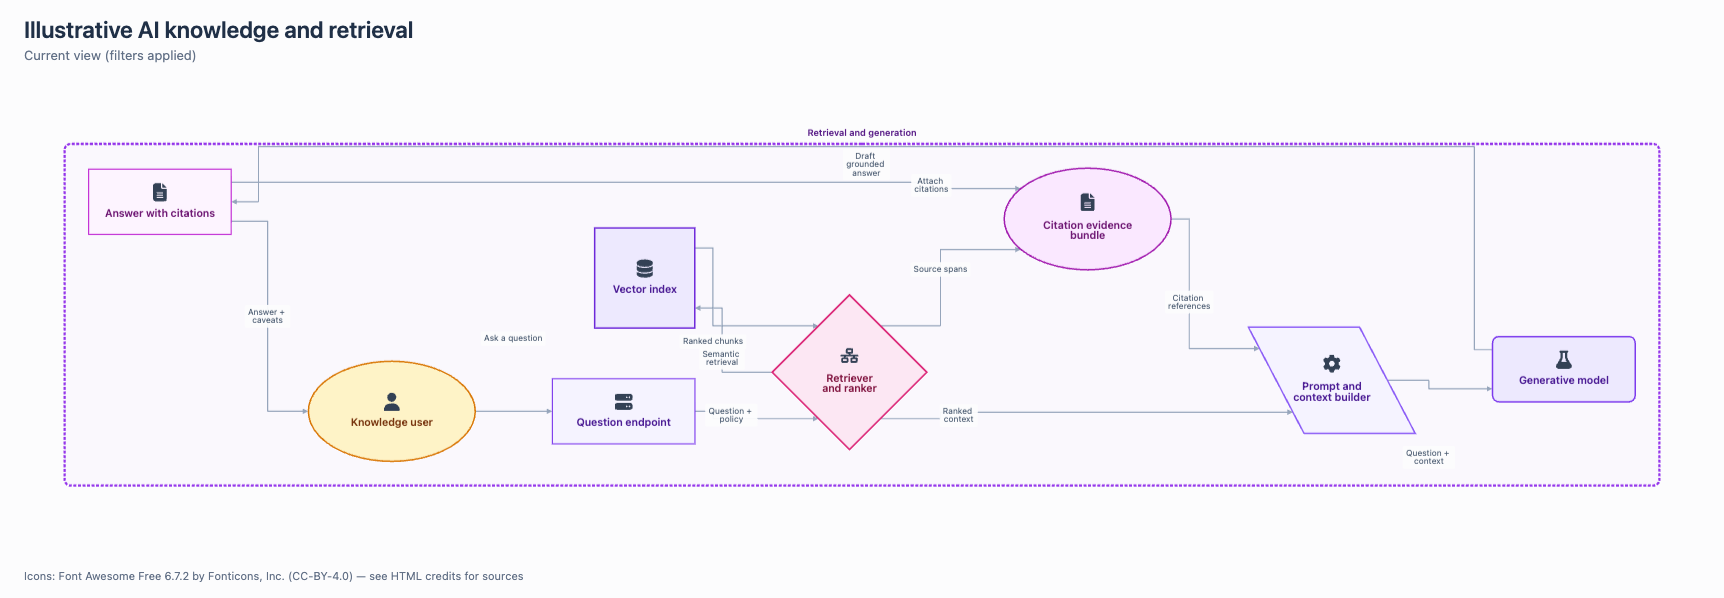
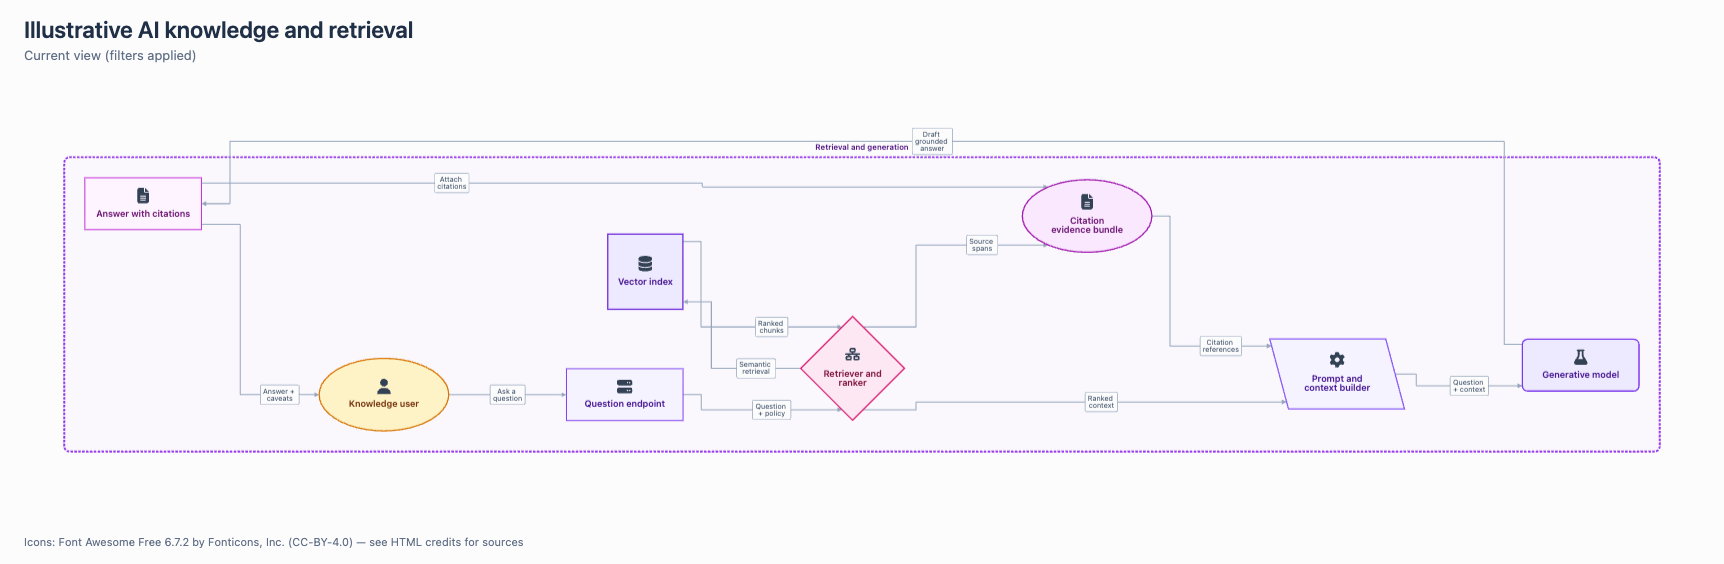
Improve diagram composition and routing

diff --git a/assets/viewer.js b/assets/viewer.js
@@ -56,18 +56,21 @@ function lines(text,width){
   }
   return result;
 }
+const parallelogramRatio=208/108,parallelogramSlant=2*Math.tan(Math.PI/12)/parallelogramRatio,parallelogramPoints=[-1,-1,1-parallelogramSlant,-1,1,1,-1+parallelogramSlant,1];
 const nodes=model.nodes.map(n=>{
   const group=n.kind==='group',appearance=n.appearance||{},shape={'oval':'ellipse','parallelogram':'rhomboid'}[appearance.shape]||appearance.shape||'round-rectangle';
-  const labelWidth=appearance.shape==='diamond'?88:appearance.shape==='parallelogram'?104:appearance.shape==='oval'?120:appearance.shape==='square'?112:160,displayLabel=lines(n.label,labelWidth).join('\n');
+  const labelWidth=appearance.shape==='diamond'?96:appearance.shape==='parallelogram'?112:appearance.shape==='oval'?116:appearance.shape==='square'?104:152,displayLabel=lines(n.label,labelWidth).join('\n');
   const labelHeight=displayLabel.split('\n').length*19,contentHeight=labelHeight+(n.icon?30:0)+24;
-  let width=group?180:188,height=Math.max(86,contentHeight);
-  if(appearance.shape==='square')width=height=Math.max(132,height);
-  if(appearance.shape==='diamond')width=height=Math.max(176,Math.ceil(labelWidth+contentHeight+24));
-  if(appearance.shape==='oval'){width=Math.max(220,width);height=Math.max(132,Math.ceil(contentHeight*1.45));}
-  if(appearance.shape==='parallelogram'){width=Math.max(220,width);height=Math.max(140,Math.ceil(contentHeight*1.4));}
+  let width=group?180:180,height=Math.max(80,contentHeight);
+  if(appearance.shape==='square')width=height=Math.max(116,height);
+  if(appearance.shape==='diamond')width=height=Math.max(160,Math.ceil(labelWidth+labelHeight+20));
+  if(appearance.shape==='oval'){width=Math.max(200,width);height=Math.max(112,contentHeight+18);}
+  if(appearance.shape==='parallelogram'){height=Math.max(108,contentHeight+16);width=height*parallelogramRatio;}
+  const slant=appearance.shape==='parallelogram'?parallelogramSlant:0;
   const groupLabelWidth=Math.min(300,measure.measureText(n.label).width),iconTop=n.icon?Math.max(10,(height-labelHeight-30)/2):0;
-  return {data:{id:n.id,label:n.label,displayLabel,kind:n.kind||'element',...(n.parent?{parent:n.parent}:{}),width,height,labelWidth,labelHeight,shape,icon:icons[n.icon]||null,iconTop,fill:appearance.fill||'#ffffff',stroke:appearance.stroke||colors.get(n.kind||'element')||'#7c8899',strokeWidth:appearance.strokeWidth||1.7,textColor:appearance.textColor||'#203047',groupLabel:appearance.groupLabel||'top',groupPadding:appearance.groupLabel==='inside'?46:30,groupTextX:appearance.groupLabel==='inside'?(n.icon?42:14)+groupLabelWidth:0}};
+  return {data:{id:n.id,label:n.label,displayLabel,kind:n.kind||'element',...(n.parent?{parent:n.parent}:{}),width,height,labelWidth,labelHeight,shape,slant,icon:icons[n.icon]||null,iconTop,fill:appearance.fill||'#ffffff',stroke:appearance.stroke||colors.get(n.kind||'element')||'#7c8899',strokeWidth:appearance.strokeWidth||1.7,textColor:appearance.textColor||'#203047',groupLabel:appearance.groupLabel||'top',groupPadding:appearance.groupLabel==='inside'?46:30,groupTextX:appearance.groupLabel==='inside'?(n.icon?42:14)+groupLabelWidth:0}};
 });
+const nodeSpacing=Math.max(90,model.layout?.spacing||0),layerSpacing=Math.max(180,model.layout?.layerSpacing||0);
 const edges=model.edges.map(e=>({data:{id:e.id,source:e.source,target:e.target,label:e.label||'',kind:e.kind||'flow',directed:e.directed!==false,curveStyle:'straight',segmentWeights:'0.5',segmentDistances:'0',routeLabelX:0,routeLabelY:0,sourceEndpoint:'outside-to-node',targetEndpoint:'outside-to-node'}}));
 const cy=api.cy=cytoscape({
   container:$('cy'),elements:{nodes,edges},layout:{name:'preset'},
@@ -79,7 +82,7 @@ const cy=api.cy=cytoscape({
     {selector:'node:parent',style:{'shape':'round-rectangle','background-color':'data(fill)','background-opacity':0.22,'border-color':'data(stroke)','border-width':'data(strokeWidth)','border-style':'dashed','padding':'data(groupPadding)','label':'data(label)','font-size':12,'font-weight':600,'color':'data(textColor)','text-valign':'top','text-halign':'center','text-margin-x':0,'text-margin-y':-9,'compound-sizing-wrt-labels':'include','background-image':'none','text-wrap':'wrap','text-max-width':300}},
     {selector:'node:parent[groupLabel="inside"]',style:{'text-halign':'left','text-valign':'top','text-margin-x':'data(groupTextX)','text-margin-y':15}},
     {selector:'node:parent[groupLabel="inside"][icon]',style:{'background-image':n=>n.data('icon')||'none','background-fit':'none','background-width':20,'background-height':20,'background-position-x':'16px','background-position-y':'14px'}},
-    {selector:'edge',style:{'curve-style':'data(curveStyle)','edge-distances':'node-position','segment-weights':'data(segmentWeights)','segment-distances':'data(segmentDistances)','source-endpoint':'data(sourceEndpoint)','target-endpoint':'data(targetEndpoint)','line-color':'#96a5bb','target-arrow-color':'#96a5bb','target-arrow-shape':e=>e.data('directed')?'triangle':'none','width':1.6,'arrow-scale':0.85,'label':'data(label)','font-family':'system-ui','font-size':11,'color':'#526277','text-background-color':'#fcfcfd','text-background-opacity':0.95,'text-background-padding':4,'text-background-shape':'roundrectangle','text-wrap':'wrap','text-max-width':Math.max(44,Math.min(120,(model.layout?.layerSpacing||120)-20)),'text-rotation':'none','text-margin-x':'data(routeLabelX)','text-margin-y':'data(routeLabelY)','overlay-opacity':0}},
+    {selector:'edge',style:{'curve-style':'data(curveStyle)','edge-distances':'node-position','segment-weights':'data(segmentWeights)','segment-distances':'data(segmentDistances)','source-endpoint':'data(sourceEndpoint)','target-endpoint':'data(targetEndpoint)','line-color':'#96a5bb','target-arrow-color':'#96a5bb','target-arrow-shape':e=>e.data('directed')?'triangle':'none','width':1.6,'arrow-scale':0.85,'label':'data(label)','font-family':'system-ui','font-size':11,'color':'#526277','text-background-color':'#fcfcfd','text-background-opacity':1,'text-background-padding':4,'text-background-shape':'roundrectangle','text-border-width':1,'text-border-color':'#96a5bb','text-border-opacity':1,'text-wrap':'wrap','text-max-width':56,'text-rotation':'none','text-margin-x':'data(routeLabelX)','text-margin-y':'data(routeLabelY)','overlay-opacity':0}},
     {selector:'edge:loop',style:{'curve-style':'bezier','control-point-step-size':150,'loop-direction':'0deg','loop-sweep':'65deg'}},
     {selector:'edge[kind="event"], edge[kind="async"]',style:{'line-style':'dashed'}},
     {selector:'.dim',style:{'opacity':0.17}},
@@ -88,6 +91,7 @@ const cy=api.cy=cytoscape({
     {selector:'.hidden',style:{'display':'none'}}
   ]
 });
+cy.renderer().nodeShapes.rhomboid=cy.renderer().nodeShapes.makePolygon(parallelogramPoints);
 
 function clearFocus(){cy.elements().removeClass('dim highlight');selectedId=null;$('inspector').replaceChildren(...[...defaultInspector.childNodes].map(n=>n.cloneNode(true)));}
 function ancestors(ids){const out=new Set(ids);for(const id of ids){let n=nmap.get(id);while(n?.parent){out.add(n.parent);n=nmap.get(n.parent);}}return out;}
@@ -149,10 +153,10 @@ function inspect(id,mode){
 }
 function fit(){if(cy.nodes(':visible').length)cy.fit(cy.elements(':visible'),48);}
 function portPoint(node,side,t){
-  const w=node.data('width'),h=node.data('height'),shape=node.data('shape'),horizontal=side==='NORTH'||side==='SOUTH';let x=horizontal?t:0,y=horizontal?0:t;
+  const w=node.data('width'),h=node.data('height'),shape=node.data('shape'),slant=node.data('slant'),horizontal=side==='NORTH'||side==='SOUTH';let x=horizontal?t:0,y=horizontal?0:t;
   if(shape==='ellipse'){if(horizontal)y=(side==='SOUTH'?1:-1)*Math.sqrt(1-x*x);else x=(side==='EAST'?1:-1)*Math.sqrt(1-y*y);}
   else if(shape==='diamond'){if(horizontal)y=(side==='SOUTH'?1:-1)*(1-Math.abs(x));else x=(side==='EAST'?1:-1)*(1-Math.abs(y));}
-  else if(shape==='rhomboid'){if(horizontal){x=(side==='SOUTH'?1/3:-1/3)+2*t/3;y=side==='SOUTH'?1:-1;}else x=(side==='EAST'?2/3:-2/3)+y/3;}
+  else if(shape==='rhomboid'){if(horizontal){x=(side==='SOUTH'?slant/2:-slant/2)+(1-slant/2)*t;y=side==='SOUTH'?1:-1;}else x=(side==='EAST'?1-slant/2:-1+slant/2)+slant*y/2;}
   else if(horizontal)y=side==='SOUTH'?1:-1;else x=side==='EAST'?1:-1;
   return {x:w*(x+1)/2,y:h*(y+1)/2};
 }
@@ -171,34 +175,37 @@ function crossesNode(a,b,node){
   const c=node.position(),w=node.data('width')/2,h=node.data('height')/2,ax=(a.x-c.x)/w,ay=(a.y-c.y)/h,bx=(b.x-c.x)/w,by=(b.y-c.y)/h,dx=bx-ax,dy=by-ay,t=Math.max(0,Math.min(1,-(ax*dx+ay*dy)/(dx*dx+dy*dy||1))),x=ax+t*dx,y=ay+t*dy,shape=node.data('shape'),m=.98;
   if(shape==='ellipse')return x*x+y*y<m*m;
   if(shape==='diamond')return Math.abs(x)+Math.abs(y)<m;
-  if(shape==='rhomboid'){if(Math.abs(ay-by)<.001){if(Math.abs(ay)>=m)return false;return Math.max(Math.min(ax,bx),(-2*m+ay)/3)<Math.min(Math.max(ax,bx),(2*m+ay)/3);}const low=Math.max(-m,3*ax-2*m),high=Math.min(m,3*ax+2*m);return Math.max(Math.min(ay,by),low)<Math.min(Math.max(ay,by),high);}
+  if(shape==='rhomboid'){const s=node.data('slant');if(Math.abs(ay-by)<.001){if(Math.abs(ay)>=m)return false;const shift=s*ay/2;return Math.max(Math.min(ax,bx),-m+s*m/2+shift)<Math.min(Math.max(ax,bx),m-s*m/2+shift);}const low=Math.max(-m,2*ax/s-2*m/s+m),high=Math.min(m,2*ax/s+2*m/s-m);return Math.max(Math.min(ay,by),low)<Math.min(Math.max(ay,by),high);}
   return Math.abs(x)<m&&Math.abs(y)<m;
 }
 async function arrange(elements){
-  const spacing=model.layout?.spacing||65,layerSpacing=model.layout?.layerSpacing||120;
-  const elk={'elk.algorithm':'layered','elk.direction':$('direction').value,'elk.hierarchyHandling':'INCLUDE_CHILDREN','elk.edgeRouting':'ORTHOGONAL','elk.spacing.nodeNode':spacing,'elk.spacing.edgeNode':Math.max(32,spacing/2),'elk.spacing.edgeEdge':24,'elk.layered.spacing.nodeNodeBetweenLayers':layerSpacing,'elk.layered.spacing.edgeNodeBetweenLayers':Math.max(36,layerSpacing/3),'elk.layered.spacing.edgeEdgeBetweenLayers':24,'elk.padding':'[top=40,left=40,bottom=40,right=40]','elk.randomSeed':17};
+  const elk={'elk.algorithm':'layered','elk.direction':$('direction').value,'elk.hierarchyHandling':'INCLUDE_CHILDREN','elk.edgeRouting':'ORTHOGONAL','elk.spacing.nodeNode':nodeSpacing,'elk.spacing.edgeNode':Math.max(32,nodeSpacing/2),'elk.spacing.edgeEdge':24,'elk.layered.spacing.nodeNodeBetweenLayers':layerSpacing,'elk.layered.spacing.edgeNodeBetweenLayers':Math.max(36,layerSpacing/3),'elk.layered.spacing.edgeEdgeBetweenLayers':24,'elk.padding':'[top=40,left=40,bottom=40,right=40]','elk.randomSeed':17};
   await new Promise((resolve,reject)=>{const timer=setTimeout(()=>reject(new Error('Layout exceeded 15 seconds. Split the diagram or use a worker-based integration.')),15000),success=()=>{clearTimeout(timer);pendingFailure=null;resolve();};pendingFailure=e=>{clearTimeout(timer);reject(e);};elements.layout({name:'elk',fit:false,animate:false,nodeDimensionsIncludeLabels:false,nodeLayoutOptions:node=>node.isParent()?{...elk,'elk.padding':node.data('groupLabel')==='inside'?'[top=76,left=42,bottom=42,right=42]':'[top=50,left=36,bottom=36,right=36]'}:{},elk,stop:success}).run();});
 }
 async function route(elements,retryEdge=null){
   const visible=elements.edges(':visible'),records=[],ports=new Map(),occupied=[];
   const side=(a,b)=>{const dx=b.x-a.x,dy=b.y-a.y;if(Math.abs(dx)>=Math.abs(dy))return dx>=0?'EAST':'WEST';return dy>=0?'SOUTH':'NORTH';},opposite={EAST:'WEST',WEST:'EAST',NORTH:'SOUTH',SOUTH:'NORTH'},vector={EAST:[1,0],WEST:[-1,0],NORTH:[0,-1],SOUTH:[0,1]};
-  visible.forEach(edge=>{if(edge.isLoop()){edge.data({curveStyle:'bezier',routeLabelX:0,routeLabelY:-28});return;}const source=edge.source().position(),target=edge.target().position(),sourceSide=side(source,target),targetSide=opposite[sourceSide],record={edge,source,target,sourceSide,targetSide};records.push(record);for(const [node,which,s,peer] of [[edge.source(),'source',sourceSide,target],[edge.target(),'target',targetSide,source]]){const key=`${node.id()}:${s}`;if(!ports.has(key))ports.set(key,[]);ports.get(key).push({record,which,peer});}});
-  for(const entries of ports.values()){const vertical=['EAST','WEST'].includes(entries[0].record[`${entries[0].which}Side`]);entries.sort((a,b)=>(vertical?a.peer.y-b.peer.y:a.peer.x-b.peer.x)||a.record.edge.id().localeCompare(b.record.edge.id()));entries.forEach((entry,i)=>{entry.record[`${entry.which}Port`]=entries.length===1?0:-.6+1.2*i/(entries.length-1);entry.record[`${entry.which}Stub`]=24+i*12;});}
-  const obstacles=elements.nodes(':visible').filter(n=>!n.isParent()).map(n=>{const p=n.position(),pad=12;return{id:n.id(),x1:p.x-n.data('width')/2-pad,y1:p.y-n.data('height')/2-pad,x2:p.x+n.data('width')/2+pad,y2:p.y+n.data('height')/2+pad};}),xs=obstacles.flatMap(o=>[o.x1-18,o.x2+18]),ys=obstacles.flatMap(o=>[o.y1-18,o.y2+18]);
-  const segments=path=>path.slice(1).map((p,i)=>[path[i],p]),intersects=(a,b,o)=>Math.abs(a.y-b.y)<.5?a.y>o.y1&&a.y<o.y2&&Math.max(a.x,b.x)>o.x1&&Math.min(a.x,b.x)<o.x2:a.x>o.x1&&a.x<o.x2&&Math.max(a.y,b.y)>o.y1&&Math.min(a.y,b.y)<o.y2;
+  visible.forEach(edge=>{if(edge.isLoop()){edge.data({curveStyle:'bezier',routeLabelX:0,routeLabelY:0});return;}const source=edge.source().position(),target=edge.target().position(),sourceSide=side(source,target),targetSide=opposite[sourceSide],record={edge,source,target,sourceSide,targetSide};records.push(record);for(const [node,which,s,peer] of [[edge.source(),'source',sourceSide,target],[edge.target(),'target',targetSide,source]]){const key=`${node.id()}:${s}`;if(!ports.has(key))ports.set(key,[]);ports.get(key).push({record,which,peer});}});
+  for(const entries of ports.values()){const vertical=['EAST','WEST'].includes(entries[0].record[`${entries[0].which}Side`]);entries.sort((a,b)=>(vertical?a.peer.y-b.peer.y:a.peer.x-b.peer.x)||a.record.edge.id().localeCompare(b.record.edge.id()));entries.forEach((entry,i)=>{entry.record[`${entry.which}Port`]=entries.length===1?0:-.8+1.6*i/(entries.length-1);entry.record[`${entry.which}Stub`]=28+i*16;});}
+  const obstacles=elements.nodes(':visible').filter(n=>!n.isParent()).map(n=>{const p=n.position(),pad=12;return{id:n.id(),x1:p.x-n.data('width')/2-pad,y1:p.y-n.data('height')/2-pad,x2:p.x+n.data('width')/2+pad,y2:p.y+n.data('height')/2+pad};}),groupClearance=22,groups=elements.nodes(':visible').filter(n=>n.isParent()).map(n=>{const b=n.boundingBox({includeLabels:false,includeOverlays:false});return{id:n.id(),x1:b.x1,y1:b.y1,x2:b.x2,y2:b.y2};}),xs=[...obstacles.flatMap(o=>[o.x1-18,o.x2+18]),...groups.flatMap(g=>[g.x1-groupClearance,g.x2+groupClearance])],ys=[...obstacles.flatMap(o=>[o.y1-18,o.y2+18]),...groups.flatMap(g=>[g.y1-groupClearance,g.y2+groupClearance])];
+  const segments=path=>path.slice(1).map((p,i)=>[path[i],p]),intersects=(a,b,o)=>Math.abs(a.x-b.x)>=Math.abs(a.y-b.y)?a.y>o.y1&&a.y<o.y2&&Math.max(a.x,b.x)>o.x1&&Math.min(a.x,b.x)<o.x2:a.x>o.x1&&a.x<o.x2&&Math.max(a.y,b.y)>o.y1&&Math.min(a.y,b.y)<o.y2;
+  const hugsGroup=(a,b,g)=>Math.abs(a.y-b.y)<.5?Math.max(a.x,b.x)>g.x1&&Math.min(a.x,b.x)<g.x2&&Math.min(Math.abs(a.y-g.y1),Math.abs(a.y-g.y2))<groupClearance:Math.max(a.y,b.y)>g.y1&&Math.min(a.y,b.y)<g.y2&&Math.min(Math.abs(a.x-g.x1),Math.abs(a.x-g.x2))<groupClearance;
   const overlap=(a,b,c,d)=>{const ah=Math.abs(a.y-b.y)<.5,ch=Math.abs(c.y-d.y)<.5;if(ah!==ch)return 0;if(ah&&Math.abs(a.y-c.y)<1)return Math.max(0,Math.min(Math.max(a.x,b.x),Math.max(c.x,d.x))-Math.max(Math.min(a.x,b.x),Math.min(c.x,d.x)));if(!ah&&Math.abs(a.x-c.x)<1)return Math.max(0,Math.min(Math.max(a.y,b.y),Math.max(c.y,d.y))-Math.max(Math.min(a.y,b.y),Math.min(c.y,d.y)));return 0;};
   const crossing=(a,b,c,d)=>{const ah=Math.abs(a.y-b.y)<.5,ch=Math.abs(c.y-d.y)<.5;if(ah===ch)return false;const h=ah?[a,b]:[c,d],v=ah?[c,d]:[a,b];return v[0].x>Math.min(h[0].x,h[1].x)&&v[0].x<Math.max(h[0].x,h[1].x)&&h[0].y>Math.min(v[0].y,v[1].y)&&h[0].y<Math.max(v[0].y,v[1].y);};
-  const compact=path=>{const out=[];for(const p of path){const n=out.length,vertical=n>1&&Math.abs(out[n-2].x-out[n-1].x)<.5&&Math.abs(out[n-1].x-p.x)<.5&&(out[n-1].y-out[n-2].y)*(p.y-out[n-1].y)>=0,horizontal=n>1&&Math.abs(out[n-2].y-out[n-1].y)<.5&&Math.abs(out[n-1].y-p.y)<.5&&(out[n-1].x-out[n-2].x)*(p.x-out[n-1].x)>=0;if(vertical||horizontal)out[n-1]=p;else if(!n||Math.abs(p.x-out[n-1].x)>.5||Math.abs(p.y-out[n-1].y)>.5)out.push(p);}return out;};
+  const compact=path=>{const out=[];for(const p of path){const n=out.length,vertical=n>1&&Math.abs(out[n-2].x-out[n-1].x)<.01&&Math.abs(out[n-1].x-p.x)<.01&&(out[n-1].y-out[n-2].y)*(p.y-out[n-1].y)>=0,horizontal=n>1&&Math.abs(out[n-2].y-out[n-1].y)<.01&&Math.abs(out[n-1].y-p.y)<.01&&(out[n-1].x-out[n-2].x)*(p.x-out[n-1].x)>=0;if(vertical||horizontal)out[n-1]=p;else if(!n||Math.abs(p.x-out[n-1].x)>.01||Math.abs(p.y-out[n-1].y)>.01)out.push(p);}return out;};
+  const area=(a,b)=>Math.max(0,Math.min(a.x2,b.x2)-Math.max(a.x1,b.x1))*Math.max(0,Math.min(a.y2,b.y2)-Math.max(a.y1,b.y1)),labelBodies=elements.nodes(':visible').filter(n=>!n.isParent()).map(n=>n.boundingBox({includeLabels:false,includeOverlays:false}));
+  const labelPositions=(path,z)=>{const out=[];for(const [a,b] of segments(path)){const horizontal=Math.abs(a.y-b.y)<.5,length=Math.abs(horizontal?a.x-b.x:a.y-b.y),extent=(horizontal?z.labelWidth:z.labelHeight)/2+4,fractions=new Set([.5,.35,.65,.2,.8]);for(let offset=extent;offset<=length-extent;offset+=12){fractions.add(offset/length);fractions.add(1-offset/length);}for(const t of fractions){if(length*Math.min(t,1-t)<extent)continue;const x=a.x+(b.x-a.x)*t,y=a.y+(b.y-a.y)*t;out.push({x,y,horizontal,length,t,box:{x1:x-z.labelWidth/2-4,y1:y-z.labelHeight/2-4,x2:x+z.labelWidth/2+4,y2:y+z.labelHeight/2+4}});}}return out;};
   for(const [lane,r] of records.sort((a,b)=>(a.edge.id()===retryEdge?-1:b.edge.id()===retryEdge?1:0)||(Math.abs(a.target.x-a.source.x)+Math.abs(a.target.y-a.source.y))-(Math.abs(b.target.x-b.source.x)+Math.abs(b.target.y-b.source.y))||a.edge.id().localeCompare(b.edge.id())).entries()){
-    const sourcePoint=portPoint(r.edge.source(),r.sourceSide,r.sourcePort),targetPoint=portPoint(r.edge.target(),r.targetSide,r.targetPort),start={x:r.source.x+sourcePoint.x-r.edge.source().data('width')/2,y:r.source.y+sourcePoint.y-r.edge.source().data('height')/2},end={x:r.target.x+targetPoint.x-r.edge.target().data('width')/2,y:r.target.y+targetPoint.y-r.edge.target().data('height')/2},sv=vector[r.sourceSide],tv=vector[r.targetSide],sourceStub=stubLength(r.edge.source(),r.sourceSide,sourcePoint,r.sourceStub),targetStub=stubLength(r.edge.target(),r.targetSide,targetPoint,r.targetStub),stub={x:start.x+sv[0]*sourceStub,y:start.y+sv[1]*sourceStub},finish={x:end.x+tv[0]*targetStub,y:end.y+tv[1]*targetStub},usedX=occupied.filter(([a,b])=>Math.abs(a.x-b.x)<.5).flatMap(([a])=>[a.x-12,a.x+12]),usedY=occupied.filter(([a,b])=>Math.abs(a.y-b.y)<.5).flatMap(([a])=>[a.y-12,a.y+12]),channelsX=[(stub.x+finish.x)/2,...xs,...usedX,Math.min(...xs)-24-lane*8,Math.max(...xs)+24+lane*8],channelsY=[(stub.y+finish.y)/2,...ys,...usedY,Math.min(...ys)-24-lane*8,Math.max(...ys)+24+lane*8],candidates=[[start,stub,{x:finish.x,y:stub.y},finish,end],[start,stub,{x:stub.x,y:finish.y},finish,end],...channelsX.map(x=>[start,stub,{x,y:stub.y},{x,y:finish.y},finish,end]),...channelsY.map(y=>[start,stub,{x:stub.x,y},{x:finish.x,y},finish,end])].map(compact),skip=new Set([r.edge.source().id(),r.edge.target().id()]);
-    const select=paths=>paths.map(path=>{const parts=segments(path);let score=parts.reduce((sum,[a,b])=>sum+Math.abs(a.x-b.x)+Math.abs(a.y-b.y),0)+(path.length-2)*28,blocked=false;for(const [a,b] of parts){blocked ||= obstacles.some(o=>skip.has(o.id)?crossesNode(a,b,cy.getElementById(o.id)):intersects(a,b,o));for(const [c,d] of occupied){blocked ||= overlap(a,b,c,d)>3;score+=crossing(a,b,c,d)?180:0;}}return{path,score,blocked};}).filter(choice=>!choice.blocked).sort((a,b)=>a.score-b.score||JSON.stringify(a.path).localeCompare(JSON.stringify(b.path)))[0];
+    const sourcePoint=portPoint(r.edge.source(),r.sourceSide,r.sourcePort),targetPoint=portPoint(r.edge.target(),r.targetSide,r.targetPort),start={x:r.source.x+sourcePoint.x-r.edge.source().data('width')/2,y:r.source.y+sourcePoint.y-r.edge.source().data('height')/2},end={x:r.target.x+targetPoint.x-r.edge.target().data('width')/2,y:r.target.y+targetPoint.y-r.edge.target().data('height')/2},sv=vector[r.sourceSide],tv=vector[r.targetSide],sourceStub=stubLength(r.edge.source(),r.sourceSide,sourcePoint,r.sourceStub),targetStub=stubLength(r.edge.target(),r.targetSide,targetPoint,r.targetStub),stub={x:start.x+sv[0]*sourceStub,y:start.y+sv[1]*sourceStub},finish={x:end.x+tv[0]*targetStub,y:end.y+tv[1]*targetStub},routeClearance=48,usedX=occupied.filter(([a,b])=>Math.abs(a.x-b.x)<.5).flatMap(([a])=>[a.x-routeClearance,a.x+routeClearance]),usedY=occupied.filter(([a,b])=>Math.abs(a.y-b.y)<.5).flatMap(([a])=>[a.y-routeClearance,a.y+routeClearance]),channelsX=[(stub.x+finish.x)/2,...xs,...usedX,Math.min(...xs)-24-lane*8,Math.max(...xs)+24+lane*8],channelsY=[(stub.y+finish.y)/2,...ys,...usedY,Math.min(...ys)-24-lane*8,Math.max(...ys)+24+lane*8],candidates=[[start,stub,{x:finish.x,y:stub.y},finish,end],[start,stub,{x:stub.x,y:finish.y},finish,end],...channelsX.map(x=>[start,stub,{x,y:stub.y},{x,y:finish.y},finish,end]),...channelsY.map(y=>[start,stub,{x:stub.x,y},{x:finish.x,y},finish,end])].map(compact),skip=new Set([r.edge.source().id(),r.edge.target().id()]);
+    const select=paths=>paths.map(path=>{const parts=segments(path);let score=parts.reduce((sum,[a,b])=>sum+Math.abs(a.x-b.x)+Math.abs(a.y-b.y),0)+(path.length-2)*28,blocked=Boolean(r.edge.data('label'))&&!labelPositions(path,r.edge._private.rstyle).some(p=>!labelBodies.some(b=>area(p.box,b)));for(const [a,b] of parts){blocked ||= obstacles.some(o=>skip.has(o.id)?crossesNode(a,b,cy.getElementById(o.id)):intersects(a,b,o))||groups.some(g=>hugsGroup(a,b,g));for(const [c,d] of occupied){blocked ||= overlap(a,b,c,d)>3;score+=crossing(a,b,c,d)?180:0;}}return{path,score,blocked};}).filter(choice=>!choice.blocked).sort((a,b)=>a.score-b.score||JSON.stringify(a.path).localeCompare(JSON.stringify(b.path)))[0];
     let scored=select(candidates);
     if(!scored){const detours=[];for(const x of [...new Set(channelsX)])for(const y of [...new Set(channelsY)])detours.push(compact([start,stub,{x,y:stub.y},{x,y},{x:finish.x,y},finish,end]),compact([start,stub,{x:stub.x,y},{x,y},{x,y:finish.y},finish,end]));scored=select(detours);}
-    if(!scored){if(!retryEdge)return route(elements,r.edge.id());throw new Error(`No collision-free orthogonal route for ${r.edge.id()}.`);}const path=scored.path,bends=path.slice(1,-1),values=segmentValues(bends,r.source,r.target);occupied.push(...segments(path));r.edge.data({curveStyle:bends.length?'segments':'straight',segmentWeights:values.weights,segmentDistances:values.distances,sourceEndpoint:`${start.x-r.source.x}px ${start.y-r.source.y}px`,targetEndpoint:`${end.x-r.target.x}px ${end.y-r.target.y}px`,routeLabelX:0,routeLabelY:0});
+    if(!scored){if(!retryEdge)return route(elements,r.edge.id());throw new Error(`No collision-free orthogonal route for ${r.edge.id()}.`);}const path=scored.path,bends=path.slice(1,-1),values=segmentValues(bends,r.source,r.target);occupied.push(...segments(path));r.edge.scratch('routePath',path);r.edge.data({curveStyle:bends.length?'segments':'straight',segmentWeights:values.weights,segmentDistances:values.distances,sourceEndpoint:`${start.x-r.source.x}px ${start.y-r.source.y}px`,targetEndpoint:`${end.x-r.target.x}px ${end.y-r.target.y}px`,routeLabelX:0,routeLabelY:0});
   }
   cy.style().update();await new Promise(resolve=>requestAnimationFrame(resolve));
-  const placed=[],groupBoxes=elements.nodes(':visible').filter(n=>n.isParent()).map(n=>{n.boundingBox({includeLabels:true,includeOverlays:false});return n._private.labelBounds.main;}),nodeBoxes=[...obstacles.map(o=>({x1:o.x1,y1:o.y1,x2:o.x2,y2:o.y2})),...groupBoxes],area=(a,b)=>Math.max(0,Math.min(a.x2,b.x2)-Math.max(a.x1,b.x1))*Math.max(0,Math.min(a.y2,b.y2)-Math.max(a.y1,b.y1));
-  for(const r of records){if(!r.edge.data('label'))continue;const s=r.edge._private.rscratch,z=r.edge._private.rstyle;if(!Number.isFinite(s.labelX))continue;let best;const offsets=[0,-24,24,-48,48,-72,72,-96,96,-120,120];for(const x of offsets)for(const y of offsets){const box={x1:s.labelX+x-z.labelWidth/2,y1:s.labelY+y-z.labelHeight/2,x2:s.labelX+x+z.labelWidth/2,y2:s.labelY+y+z.labelHeight/2},collision=[...nodeBoxes,...placed].reduce((n,b)=>n+area(box,b),0),score=collision*1000+Math.abs(x)+Math.abs(y);if(!best||score<best.score)best={x,y,box,score};}r.edge.data({routeLabelX:best.x,routeLabelY:best.y});placed.push(best.box);}
+  const placed=[],groupTitles=elements.nodes(':visible').filter(n=>n.isParent()).map(n=>{n.boundingBox({includeLabels:true,includeOverlays:false});return n._private.labelBounds.main;}),labelObstacles=[...labelBodies,...groupTitles];
+  const plans=records.filter(r=>r.edge.data('label')).map(r=>{const s=r.edge._private.rscratch,z=r.edge._private.rstyle,path=r.edge.scratch('routePath');if(!Number.isFinite(s.labelX)||!path)return null;const foreignRoutes=records.filter(v=>v!==r).flatMap(v=>segments(v.edge.scratch('routePath'))).map(([a,b])=>({x1:Math.min(a.x,b.x)-2,y1:Math.min(a.y,b.y)-2,x2:Math.max(a.x,b.x)+2,y2:Math.max(a.y,b.y)+2})),candidates=labelPositions(path,z).map(candidate=>({...candidate,staticCollision:[...labelObstacles,...foreignRoutes].reduce((n,v)=>n+area(candidate.box,v),0)}));return{r,s,path,candidates,clean:candidates.filter(v=>v.staticCollision<.01).length};}).filter(Boolean).sort((a,b)=>a.clean-b.clean||a.r.edge.id().localeCompare(b.r.edge.id()));
+  for(const {r,s,path,candidates} of plans){let best;for(const candidate of candidates){const collision=candidate.staticCollision+placed.reduce((n,v)=>n+area(candidate.box,v),0),score=collision*1000+(candidate.horizontal?0:60)+Math.abs(candidate.t-.5)*20-candidate.length/100;if(!best||score<best.score)best={...candidate,score};}if(!best){const [a,b]=segments(path).sort((u,v)=>(Math.abs(v[0].x-v[1].x)+Math.abs(v[0].y-v[1].y))-(Math.abs(u[0].x-u[1].x)+Math.abs(u[0].y-u[1].y)))[0];best={x:(a.x+b.x)/2,y:(a.y+b.y)/2};}r.edge.data({routeLabelX:best.x-s.labelX,routeLabelY:best.y-s.labelY});placed.push(best.box);}
   cy.style().update();
 }
 async function layout(){

diff --git a/scripts/browser_check.py b/scripts/browser_check.py
@@ -61,11 +61,11 @@ AUDIT = r'''() => {
  if(leaves.length&&(graph.x1<-1||graph.y1<-1||graph.x2>cy.width()+1||graph.y2>cy.height()+1))errors.push('Visible graph is clipped by the canvas bounds.');
  const nodeLabels=cy.nodes(':visible').filter(n=>!n.isParent()||n.data('groupLabel')==='inside').map(n=>({id:n.id(),body:n.boundingBox({includeLabels:false,includeOverlays:false}),withLabel:n.boundingBox({includeLabels:true,includeOverlays:false}),marginX:n.pstyle('text-margin-x').pfValue,labelBounds:n._private.labelBounds.main}));
  for(const n of nodeLabels)if(n.withLabel.x1<n.body.x1-2||n.withLabel.y1<n.body.y1-2||n.withLabel.x2>n.body.x2+2||n.withLabel.y2>n.body.y2+2)errors.push('Node label crosses its shape boundary: '+n.id);
- const insideShape=(n,p)=>{const c=n.position(),x=(p.x-c.x)/(n.width()/2),y=(p.y-c.y)/(n.height()/2),shape=n.data('shape');if(shape==='ellipse')return x*x+y*y<=1.04;if(shape==='diamond')return Math.abs(x)+Math.abs(y)<=1.04;if(shape==='rhomboid'){const q=[[-1,-1],[1/3,-1],[1,1],[-1/3,1]];let sign=0;for(let i=0;i<q.length;i++){const a=q[i],b=q[(i+1)%q.length],cross=(b[0]-a[0])*(y-a[1])-(b[1]-a[1])*(x-a[0]);if(Math.abs(cross)<.04)continue;const next=Math.sign(cross);if(sign&&next!==sign)return false;sign=next;}return true;}return true;};
+ const insideShape=(n,p)=>{const c=n.position(),x=(p.x-c.x)/(n.width()/2),y=(p.y-c.y)/(n.height()/2),shape=n.data('shape');if(shape==='ellipse')return x*x+y*y<=1.04;if(shape==='diamond')return Math.abs(x)+Math.abs(y)<=1.04;if(shape==='rhomboid'){const s=n.data('slant'),q=[[-1,-1],[1-s,-1],[1,1],[-1+s,1]];let sign=0;for(let i=0;i<q.length;i++){const a=q[i],b=q[(i+1)%q.length],cross=(b[0]-a[0])*(y-a[1])-(b[1]-a[1])*(x-a[0]);if(Math.abs(cross)<.04)continue;const next=Math.sign(cross);if(sign&&next!==sign)return false;sign=next;}return true;}return true;};
  for(const n of cy.nodes(':visible').filter(n=>!n.isParent()&&['ellipse','diamond','rhomboid'].includes(n.data('shape')))){n.boundingBox({includeLabels:true,includeOverlays:false});const b=n._private.labelBounds.main,corners=[{x:b.x1,y:b.y1},{x:b.x2,y:b.y1},{x:b.x2,y:b.y2},{x:b.x1,y:b.y2}];if(corners.some(p=>!insideShape(n,p)))errors.push('Node label crosses its curved or sloped boundary: '+n.id());}
  const segmentDistance=(p,a,b)=>{const dx=b.x-a.x,dy=b.y-a.y,t=Math.max(0,Math.min(1,((p.x-a.x)*dx+(p.y-a.y)*dy)/(dx*dx+dy*dy)));return Math.hypot(p.x-a.x-t*dx,p.y-a.y-t*dy);};
- const surfaceError=(node,point)=>{const pos=node.position(),p={x:(point.x-pos.x)/(node.width()/2),y:(point.y-pos.y)/(node.height()/2)},shape=node.data('shape');if(shape==='ellipse')return Math.abs(p.x*p.x+p.y*p.y-1);if(shape==='diamond')return Math.abs(Math.abs(p.x)+Math.abs(p.y)-1);if(shape==='rhomboid'){const q=[{x:-1,y:-1},{x:1/3,y:-1},{x:1,y:1},{x:-1/3,y:1}];return Math.min(...q.map((a,i)=>segmentDistance(p,a,q[(i+1)%q.length])));}return Math.min(Math.abs(Math.abs(p.x)-1),Math.abs(Math.abs(p.y)-1));};
- const routes=cy.edges(':visible').map(e=>({id:e.id(),source:e.source().id(),target:e.target().id(),style:e.pstyle('curve-style').value,labelX:e.data('routeLabelX'),labelY:e.data('routeLabelY'),sourcePoint:e.sourceEndpoint(),targetPoint:e.targetEndpoint(),path:[e.sourceEndpoint(),...(e.segmentPoints()||[]),e.targetEndpoint()],points:[...(e._private.rscratch.allpts||[])]}));
+ const surfaceError=(node,point)=>{const pos=node.position(),p={x:(point.x-pos.x)/(node.width()/2),y:(point.y-pos.y)/(node.height()/2)},shape=node.data('shape');if(shape==='ellipse')return Math.abs(p.x*p.x+p.y*p.y-1);if(shape==='diamond')return Math.abs(Math.abs(p.x)+Math.abs(p.y)-1);if(shape==='rhomboid'){const s=node.data('slant'),q=[{x:-1,y:-1},{x:1-s,y:-1},{x:1,y:1},{x:-1+s,y:1}];return Math.min(...q.map((a,i)=>segmentDistance(p,a,q[(i+1)%q.length])));}return Math.min(Math.abs(Math.abs(p.x)-1),Math.abs(Math.abs(p.y)-1));};
+ const routes=cy.edges(':visible').map(e=>{const points=[...(e._private.rscratch.allpts||[])];return{id:e.id(),source:e.source().id(),target:e.target().id(),style:e.pstyle('curve-style').value,labelX:e.data('routeLabelX'),labelY:e.data('routeLabelY'),sourcePoint:e.sourceEndpoint(),targetPoint:e.targetEndpoint(),path:e.isLoop()?Array.from({length:points.length/2},(_,i)=>({x:points[i*2],y:points[i*2+1]})):[e.sourceEndpoint(),...(e.segmentPoints()||[]),e.targetEndpoint()],points};});
  for(const route of routes){
    if(route.source!==route.target&&!['straight','segments'].includes(route.style))errors.push('Non-loop edge is not rectilinear: '+route.id);
    if(route.points.some(v=>!Number.isFinite(v)))errors.push('Non-finite routed edge geometry: '+route.id);
@@ -73,11 +73,13 @@ AUDIT = r'''() => {
    if(route.source!==route.target&&surfaceError(cy.getElementById(route.source),route.sourcePoint)>.12)errors.push('Source endpoint is detached from its node surface: '+route.id);
    if(route.source!==route.target&&surfaceError(cy.getElementById(route.target),route.targetPoint)>.12)errors.push('Target endpoint is detached from its node surface: '+route.id);
  }
- const crossesNode=(a,b,n)=>{const c=n.position(),w=n.width()/2,h=n.height()/2,ax=(a.x-c.x)/w,ay=(a.y-c.y)/h,bx=(b.x-c.x)/w,by=(b.y-c.y)/h,dx=bx-ax,dy=by-ay,t=Math.max(0,Math.min(1,-(ax*dx+ay*dy)/(dx*dx+dy*dy||1))),x=ax+t*dx,y=ay+t*dy,shape=n.data('shape'),m=.94;if(shape==='ellipse')return x*x+y*y<m*m;if(shape==='diamond')return Math.abs(x)+Math.abs(y)<m;if(shape==='rhomboid'){if(Math.abs(ay-by)<.001){if(Math.abs(ay)>=m)return false;return Math.max(Math.min(ax,bx),(-2*m+ay)/3)<Math.min(Math.max(ax,bx),(2*m+ay)/3);}const low=Math.max(-m,3*ax-2*m),high=Math.min(m,3*ax+2*m);return Math.max(Math.min(ay,by),low)<Math.min(Math.max(ay,by),high);}return Math.abs(x)<m&&Math.abs(y)<m;};
- const rhomboidProbe={position:()=>({x:0,y:0}),width:()=>220,height:()=>140,data:key=>key==='shape'?'rhomboid':undefined};
- if(!crossesNode({x:88,y:0},{x:88,y:63},rhomboidProbe))errors.push('Rhomboid segment collision regression.');
+ const crossesNode=(a,b,n)=>{const c=n.position(),w=n.width()/2,h=n.height()/2,ax=(a.x-c.x)/w,ay=(a.y-c.y)/h,bx=(b.x-c.x)/w,by=(b.y-c.y)/h,dx=bx-ax,dy=by-ay,t=Math.max(0,Math.min(1,-(ax*dx+ay*dy)/(dx*dx+dy*dy||1))),x=ax+t*dx,y=ay+t*dy,shape=n.data('shape'),m=.94;if(shape==='ellipse')return x*x+y*y<m*m;if(shape==='diamond')return Math.abs(x)+Math.abs(y)<m;if(shape==='rhomboid'){const s=n.data('slant');if(Math.abs(ay-by)<.001){if(Math.abs(ay)>=m)return false;const shift=s*ay/2;return Math.max(Math.min(ax,bx),-m+s*m/2+shift)<Math.min(Math.max(ax,bx),m-s*m/2+shift);}const low=Math.max(-m,2*ax/s-2*m/s+m),high=Math.min(m,2*ax/s+2*m/s-m);return Math.max(Math.min(ay,by),low)<Math.min(Math.max(ay,by),high);}return Math.abs(x)<m&&Math.abs(y)<m;};
+ const rhomboidProbe={position:()=>({x:0,y:0}),width:()=>220,height:()=>140,data:key=>key==='shape'?'rhomboid':key==='slant'?2*140*Math.tan(Math.PI/12)/220:undefined};
+ if(!crossesNode({x:100,y:0},{x:100,y:63},rhomboidProbe))errors.push('Rhomboid segment collision regression.');
  for(const route of routes)if(route.source!==route.target)for(const [a,b] of route.path.slice(1).map((p,i)=>[route.path[i],p]))for(const n of cy.nodes(':visible').filter(n=>!n.isParent()))if(crossesNode(a,b,n))errors.push('Routed edge crosses node interior: '+route.id+' / '+n.id());
  const routeSegments=r=>r.path.slice(1).map((p,i)=>[r.path[i],p]),collinearOverlap=(a,b,c,d)=>{const ah=Math.abs(a.y-b.y)<1,ch=Math.abs(c.y-d.y)<1;if(ah!==ch)return 0;if(ah&&Math.abs(a.y-c.y)<1)return Math.max(0,Math.min(Math.max(a.x,b.x),Math.max(c.x,d.x))-Math.max(Math.min(a.x,b.x),Math.min(c.x,d.x)));if(!ah&&Math.abs(a.x-c.x)<1)return Math.max(0,Math.min(Math.max(a.y,b.y),Math.max(c.y,d.y))-Math.max(Math.min(a.y,b.y),Math.min(c.y,d.y)));return 0;};
+ const groupBodies=cy.nodes(':visible').filter(n=>n.isParent()).map(n=>({id:n.id(),...n.boundingBox({includeLabels:false,includeOverlays:false})}));
+ for(const route of routes)for(const [a,b] of routeSegments(route))for(const g of groupBodies){const horizontal=Math.abs(a.y-b.y)<1,overlap=horizontal?Math.min(Math.max(a.x,b.x),g.x2)-Math.max(Math.min(a.x,b.x),g.x1):Math.min(Math.max(a.y,b.y),g.y2)-Math.max(Math.min(a.y,b.y),g.y1),distance=horizontal?Math.min(Math.abs(a.y-g.y1),Math.abs(a.y-g.y2)):Math.min(Math.abs(a.x-g.x1),Math.abs(a.x-g.x2));if(overlap>3&&distance<18)errors.push('Route hugs group boundary: '+route.id+' / '+g.id);}
  for(let i=0;i<routes.length;i++)for(let j=i+1;j<routes.length;j++)if(routes[i].source!==routes[i].target&&routes[j].source!==routes[j].target)for(const [a,b] of routeSegments(routes[i]))for(const [c,d] of routeSegments(routes[j]))if(collinearOverlap(a,b,c,d)>3)errors.push('Overlapping route channel: '+routes[i].id+' / '+routes[j].id);
  for(let i=0;i<routes.length;i++)for(let j=i+1;j<routes.length;j++){
    const a=routes[i],b=routes[j],same=a.source===b.source&&a.target===b.target,reverse=a.source===b.target&&a.target===b.source;
@@ -85,12 +87,17 @@ AUDIT = r'''() => {
    if(a.source===b.source&&Math.hypot(a.sourcePoint.x-b.sourcePoint.x,a.sourcePoint.y-b.sourcePoint.y)<1)errors.push('Coincident source endpoint: '+a.id+' / '+b.id);
    if(a.target===b.target&&Math.hypot(a.targetPoint.x-b.targetPoint.x,a.targetPoint.y-b.targetPoint.y)<1)errors.push('Coincident target endpoint: '+a.id+' / '+b.id);
  }
- const edgeLabels=cy.edges(':visible').filter(e=>e.data('label')).map(e=>{const s=e._private.rscratch,r=e._private.rstyle,x=s.labelX+e.pstyle('text-margin-x').pfValue,y=s.labelY+e.pstyle('text-margin-y').pfValue;return {id:e.id(),x1:x-r.labelWidth/2,y1:y-r.labelHeight/2,x2:x+r.labelWidth/2,y2:y+r.labelHeight/2};});
+ const edgeLabels=cy.edges(':visible').filter(e=>e.data('label')).map(e=>{const s=e._private.rscratch,r=e._private.rstyle,x=s.labelX+e.pstyle('text-margin-x').pfValue,y=s.labelY+e.pstyle('text-margin-y').pfValue;return {id:e.id(),x,y,x1:x-r.labelWidth/2,y1:y-r.labelHeight/2,x2:x+r.labelWidth/2,y2:y+r.labelHeight/2};});
  for(let i=0;i<edgeLabels.length;i++)for(let j=i+1;j<edgeLabels.length;j++){const a=edgeLabels[i],b=edgeLabels[j];if(Math.min(a.x2,b.x2)-Math.max(a.x1,b.x1)>2&&Math.min(a.y2,b.y2)-Math.max(a.y1,b.y1)>2)errors.push('Overlapping edge labels: '+a.id+' / '+b.id);}
  for(const label of edgeLabels)for(const node of leaves){if(Math.min(label.x2,node.bb.x2)-Math.max(label.x1,node.bb.x1)>2&&Math.min(label.y2,node.bb.y2)-Math.max(label.y1,node.bb.y1)>2)errors.push('Edge label overlaps node: '+label.id+' / '+node.id);}
  const groupLabels=cy.nodes(':visible').filter(n=>n.isParent()).map(n=>{n.boundingBox({includeLabels:true,includeOverlays:false});return {id:n.id(),...n._private.labelBounds.main};});
  for(const label of edgeLabels)for(const group of groupLabels){if(Math.min(label.x2,group.x2)-Math.max(label.x1,group.x1)>2&&Math.min(label.y2,group.y2)-Math.max(label.y1,group.y1)>2)errors.push('Edge label overlaps group title: '+label.id+' / '+group.id);}
- if(cy.edges(':visible').some(e=>e.data('label')&&e.pstyle('text-background-opacity').value<0.9))errors.push('Edge labels do not interrupt lines with an opaque background.');
+ for(const label of edgeLabels){const route=routes.find(r=>r.id===label.id);if(!routeSegments(route).some(([a,b])=>segmentDistance(label,a,b)<1.5))errors.push('Edge label is detached from its route: '+label.id);}
+ for(const label of edgeLabels){const box={x1:label.x1-4,y1:label.y1-4,x2:label.x2+4,y2:label.y2+4};for(const route of routes.filter(r=>r.id!==label.id))for(const [a,b] of routeSegments(route)){const horizontal=Math.abs(a.x-b.x)>=Math.abs(a.y-b.y),overlap=horizontal?Math.min(Math.max(a.x,b.x),box.x2)-Math.max(Math.min(a.x,b.x),box.x1):Math.min(Math.max(a.y,b.y),box.y2)-Math.max(Math.min(a.y,b.y),box.y1),inside=horizontal?a.y>box.y1&&a.y<box.y2:a.x>box.x1&&a.x<box.x2;if(inside&&overlap>2)errors.push('Edge label interrupts another route: '+label.id+' / '+route.id);}}
+ if(cy.edges(':visible').some(e=>e.data('label')&&(e.pstyle('text-background-opacity').value<.99||e.pstyle('text-border-width').pfValue<1)))errors.push('Edge labels need an opaque bordered interruption.');
+ for(const n of cy.nodes(':visible').filter(n=>n.data('shape')==='rhomboid')){const angle=Math.atan(n.data('slant')*n.width()/(2*n.height()))*180/Math.PI;if(Math.abs(angle-15)>.2)errors.push('Parallelogram side angle is not 15 degrees: '+n.id());}
+ for(const n of cy.nodes(':visible').filter(n=>['square','diamond'].includes(n.data('shape'))))if(Math.abs(n.width()-n.height())>.2)errors.push('Square figure does not have equal sides: '+n.id());
+ for(const n of cy.nodes(':visible').filter(n=>['ellipse','rhomboid'].includes(n.data('shape'))))if(n.width()<=n.height())errors.push('Wide figure has invalid default proportions: '+n.id());
  const labelPixels=cy.zoom()*14;
  if(leaves.length&&labelPixels<10)warnings.push('Overview text below 10 CSS px. Use a focused view or zoom; do not call this screenshot readable.');
  const iconStyles=cy.nodes().filter(n=>n.data('icon')&&(!n.isParent()||n.data('groupLabel')==='inside')).map(n=>({id:n.id(),parent:n.isParent(),fit:n.style('background-fit'),width:n.pstyle('background-width').pfValue[0],height:n.pstyle('background-height').pfValue[0]}));
